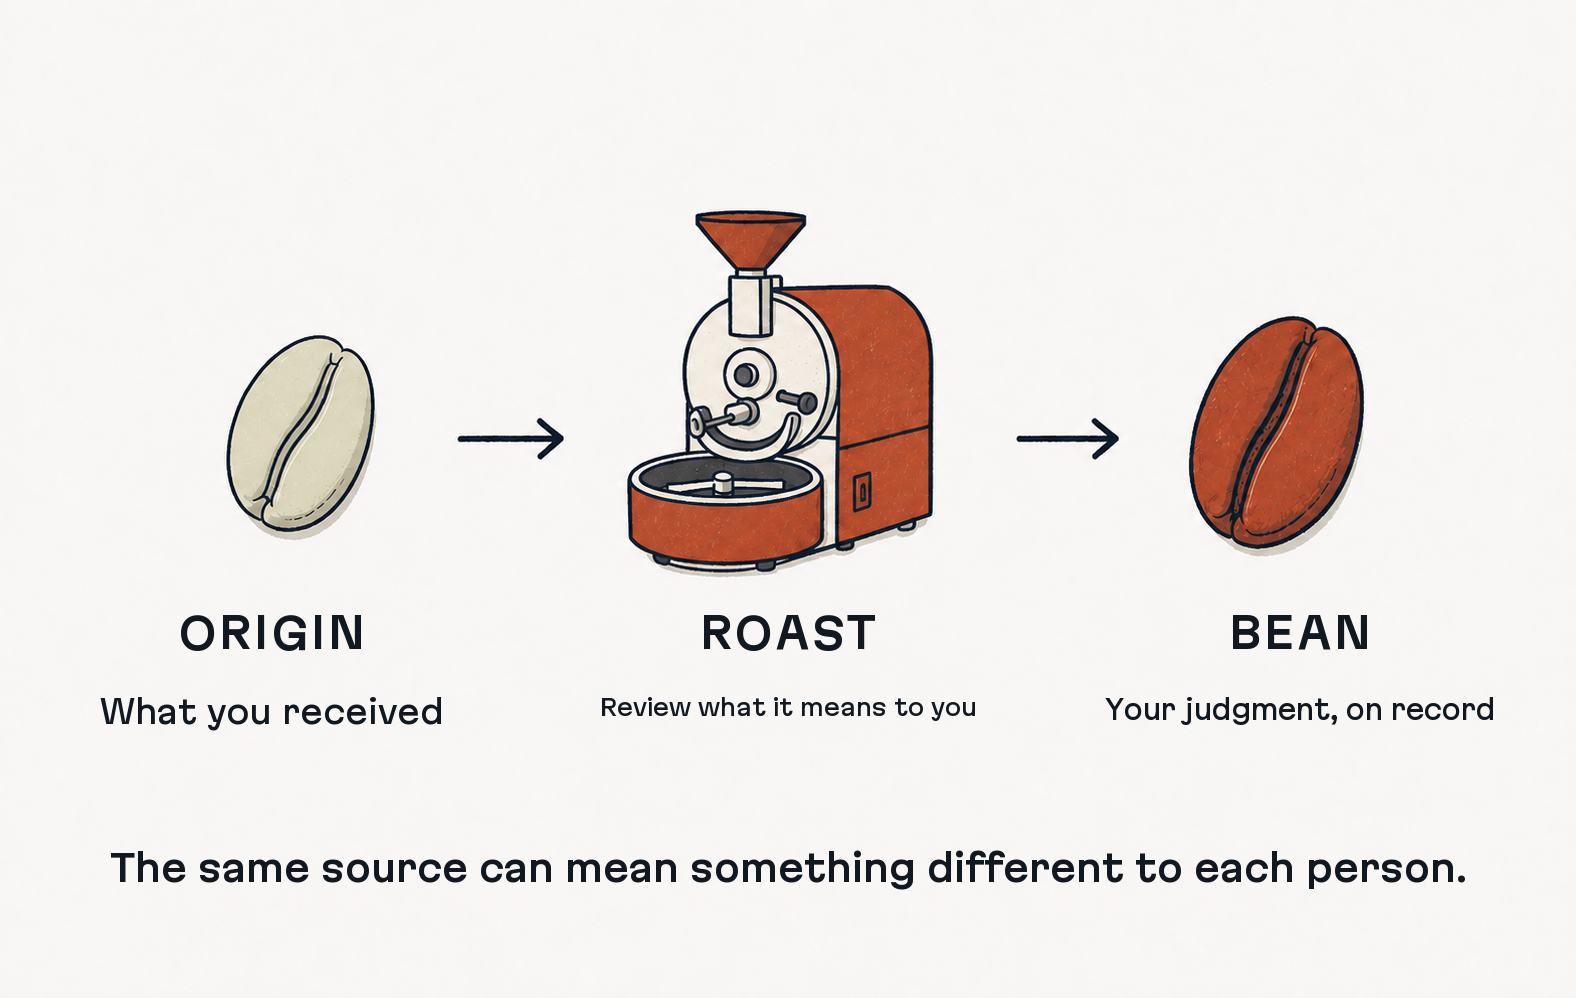
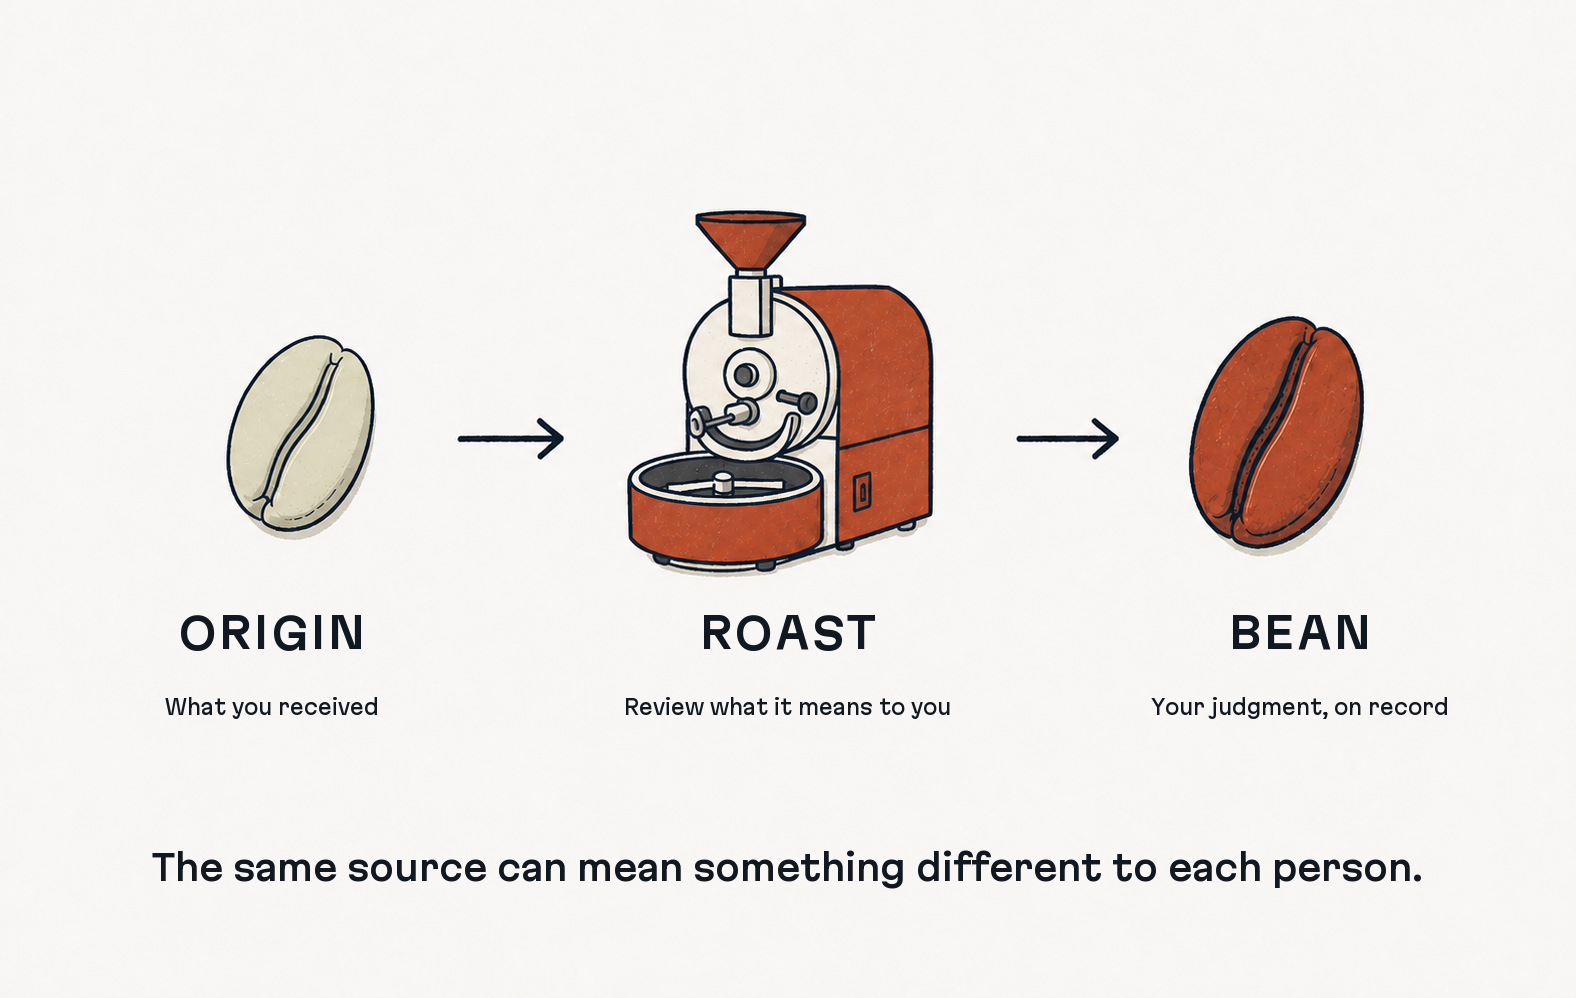
test(readme): make branded images reproducible

diff --git a/docs/assets/readme/source/compose_explanatory_images.py b/docs/assets/readme/source/compose_explanatory_images.py
@@ -9,12 +9,13 @@ import json
 from dataclasses import dataclass
 from pathlib import Path
 
-from PIL import Image, ImageDraw, ImageFont, PngImagePlugin
+from PIL import Image, ImageDraw, ImageFont, PngImagePlugin, __version__ as PILLOW_VERSION
 
 
 CANVAS = (1576, 998)
 CARBON = "#111820"
[1 lines of base64/hex data omitted]
+EXPECTED_PILLOW_VERSION = "12.3.0"
 SOURCE_COMMIT = "315c64015135aa477e7e791b877b83bae8628a52"
 SCALE = CANVAS[0] / 1200
 
@@ -33,10 +34,10 @@ STYLES = {
         "ref.typography.styles.overline", round(32 * SCALE), 650, 100, 0.08
     ),
     "body": TypeStyle(
-        "ref.typography.styles.body.lg", round(24 * SCALE), 450, 100, 0.0
+        "ref.typography.styles.body.lg", round(15 * SCALE), 450, 100, 0.0
     ),
     "heading": TypeStyle(
-        "ref.typography.styles.heading.lg", round(32 * SCALE), 550, 96, -0.012
+        "ref.typography.styles.heading.lg", round(27 * SCALE), 550, 96, 0.0
     ),
 }
 
@@ -127,27 +128,6 @@ def draw_centered(
     return draw.textbbox((x, top), value, font=selected, anchor="lt")
 
 
-def draw_fit_centered(
-    draw: ImageDraw.ImageDraw,
-    value: str,
-    center_x: int,
-    top: int,
-    max_width: int,
-    font_path: Path,
-    style: TypeStyle,
-) -> tuple[tuple[int, int, int, int], int]:
-    size = style.size
-    while size >= 18:
-        candidate_style = TypeStyle(style.token, size, style.weight, style.width, style.tracking)
-        selected = font(font_path, candidate_style)
-        box = draw.textbbox((0, 0), value, font=selected, anchor="lt")
-        width = draw.textlength(value, font=selected)
-        if width <= max_width:
-            return draw_centered(draw, value, center_x, top, selected), size
-        size -= 1
-    raise OverflowError(f"copy does not fit: {value}")
-
-
 def validate_box(box: tuple[int, int, int, int], role: str) -> None:
     left, top, right, bottom = box
     if left < 48 or right > CANVAS[0] - 48 or top < 0 or bottom > CANVAS[1]:
@@ -166,12 +146,13 @@ def compose(kind: str, source: Path, output: Path, font_path: Path) -> dict[str,
         selected = font(font_path, style)
         if style.tracking and max_width is None:
             box = draw_tracked(draw, value, center, top, selected, style)
-            actual_size = style.size
-        elif max_width is not None:
-            box, actual_size = draw_fit_centered(draw, value, center, top, max_width, font_path, style)
         else:
             box = draw_centered(draw, value, center, top, selected)
-            actual_size = style.size
+        if max_width is not None and box[2] - box[0] > max_width:
+            raise OverflowError(
+                f"{style_name} copy exceeds {max_width}px at canonical size "
+                f"{style.size}: {value} ({box[2] - box[0]}px)"
+            )
         validate_box(box, value)
         records.append(
             {
@@ -179,7 +160,7 @@ def compose(kind: str, source: Path, output: Path, font_path: Path) -> dict[str,
                 "role": style_name,
                 "token": style.token,
                 "font": font_path.name,
-                "font_size": actual_size,
+                "font_size": style.size,
                 "axes": {"wght": style.weight, "wdth": style.width},
                 "tracking_em": style.tracking,
                 "shaping": (
@@ -256,10 +237,11 @@ def compose(kind: str, source: Path, output: Path, font_path: Path) -> dict[str,
     return {
         "kind": kind,
         "source": source.name,
-        "output": str(output),
+        "output": f"docs/assets/readme/{output.name}",
         "canvas": list(CANVAS),
         "font": font_path.name,
         "font_sha256": sha256(font_path),
+        "pillow_version": PILLOW_VERSION,
         "openboa_source_commit": SOURCE_COMMIT,
         "copy": actual_copy,
         "records": records,
@@ -274,6 +256,11 @@ def main() -> None:
     parser.add_argument("--output-dir", required=True, type=Path)
     parser.add_argument("--audit", required=True, type=Path)
     args = parser.parse_args()
+
+    if PILLOW_VERSION != EXPECTED_PILLOW_VERSION:
+        raise RuntimeError(
+            f"Pillow {EXPECTED_PILLOW_VERSION} is required; found {PILLOW_VERSION}"
+        )
 
     font_path = Path(__file__).with_name("MartianGrotesk-wdth-wght.ttf")
     if sha256(font_path) != FONT_SHA256:

diff --git a/docs/assets/readme/README.md b/docs/assets/readme/README.md
@@ -17,8 +17,8 @@ photography and flat geometric minimalism.
 
 | File                        | Size       | SHA-256                                                            |
 | --------------------------- | ---------- | ------------------------------------------------------------------ |
[4 lines of base64/hex data omitted]
 
 The images separate generated illustration from deterministic typography. The
 illustration layer provides only coffee objects, arrows, texture, and color.
@@ -30,7 +30,11 @@ records the applied OpenBoa type tokens in
 Regenerate both explanatory PNGs from the repository root:
 
 ```sh
-python3 docs/assets/readme/source/compose_explanatory_images.py \
+python3.12 -m venv .readme-image-venv
+.readme-image-venv/bin/python -m pip install \
+  --require-hashes -r docs/assets/readme/source/requirements.txt
+.readme-image-venv/bin/python \
+  docs/assets/readme/source/compose_explanatory_images.py \
   --judgment-source docs/assets/readme/source/coffee-chat-judgment-illustration.png \
   --talk-work-source docs/assets/readme/source/coffee-chat-talk-work-illustration.png \
   --output-dir docs/assets/readme \
@@ -39,6 +43,9 @@ python3 docs/assets/readme/source/compose_explanatory_images.py \
 
 The two `*-illustration.png` files are approved text-free ImageGen layers. The
 composer does not alter their pixels beyond adding the deterministic copy.
+`npm run readme:assets:verify` regenerates both images and their audit in a
+temporary directory, then requires byte-for-byte equality with the committed
+artifacts.
 
 ## Brand basis
 
@@ -51,9 +58,11 @@ composer does not alter their pixels beyond adding the deterministic copy.
   `MartianGrotesk-wdth-wght.ttf` release file
 - Font SHA-256:
[1 lines of base64/hex data omitted]
-- Type tokens: `overline`, `body/lg`, and `heading/lg`, scaled uniformly for the
-  1576 × 998 raster; custom tracking applies only to stage labels and full
-  sentences retain native whole-string kerning
+- Type tokens: `overline`, `body/lg`, and `heading/lg`; each token has one fixed
+  size across both 1576 × 998 images, custom tracking applies only to stage
+  labels, and full sentences retain native whole-string kerning
+- Rendering environment: Pillow 12.3.0 installed from a hash-locked requirements
+  file
 - Font license: OFL-1.1, stored next to the physical source file
 - Production format: deterministic self-contained PNG
 

diff --git a/docs/superpowers/specs/2026-08-12-coffee-chat-readme-core-narrative-design.md b/docs/superpowers/specs/2026-08-12-coffee-chat-readme-core-narrative-design.md
@@ -1,9 +1,8 @@
 # Coffee Chat README core narrative design
 
-**Status:** Confirmed design unit  
-**Date:** 2026-08-12  
-**Owner:** `openboa-ai/coffee-chat`  
-**Scope:** Public README branding and information architecture only
+**Status:** Confirmed design unit **Date:** 2026-08-12 **Owner:**
+`openboa-ai/coffee-chat` **Scope:** Public README branding and information
+architecture only
 
 ## Purpose
 
@@ -255,11 +254,11 @@ a deterministic raster-composition pass using the canonical physical
 labels use the `overline` token (`wght 650`, `wdth 100`, tracking `0.08`),
 supporting descriptions use the `body/lg` token (`wght 450`, `wdth 100`,
 tracking `0`), and the closing sentence uses the `heading/lg` token (`wght 550`,
-`wdth 96`, tracking `-0.012`). Sizes are scaled uniformly for the `1576 x 998`
-raster while preserving those token ratios. Full sentences are shaped as native
-whole strings so the font's own kerning remains intact; custom tracking applies
-only to stage labels. Generated lettering, font substitution, and visually
-similar fallback fonts are not acceptable.
+`wdth 96`, tracking `0`). Each token uses one fixed size across both
+`1576 x 998` images; copy may not shrink independently to fit. Full sentences
+are shaped as native whole strings so the font's own kerning remains intact;
+custom tracking applies only to stage labels. Generated lettering, font
+substitution, and visually similar fallback fonts are not acceptable.
 
 ### README integration checkpoint
 

diff --git a/docs/superpowers/plans/2026-08-12-coffee-chat-readme-explanatory-images.md b/docs/superpowers/plans/2026-08-12-coffee-chat-readme-explanatory-images.md
@@ -34,7 +34,8 @@ tests.
 - ImageGen must not render final copy. Add all final copy deterministically with
   `MartianGrotesk-wdth-wght.ttf` from the pinned OpenBoa source commit.
 - Stage labels use the OpenBoa `overline` token, descriptions use `body/lg`, and
-  the closing sentence uses `heading/lg`, scaled uniformly for the final raster.
+  the closing sentence uses `heading/lg`; each token uses one fixed size across
+  both final rasters.
 - Neither image has a headline. Full sentences use native whole-string shaping;
   custom tracking applies only to stage labels.
 
@@ -123,8 +124,8 @@ Verify the physical font SHA-256 is
 
 Use the physical variable font at the approved weight and width axes. Render
 stage labels from `overline`, descriptions from `body/lg`, and closing copy from
-`heading/lg`, scaling the token sizes uniformly for `1576 x 998`. Shape every
-sentence in one native text call so the font's kerning is preserved.
+`heading/lg`, using one fixed size per token across both `1576 x 998` images.
+Shape every sentence in one native text call so the font's kerning is preserved.
 
 Store the two approved text-free illustration layers beside the composer and
 invoke it only with repository-relative source and output paths so the audit is
